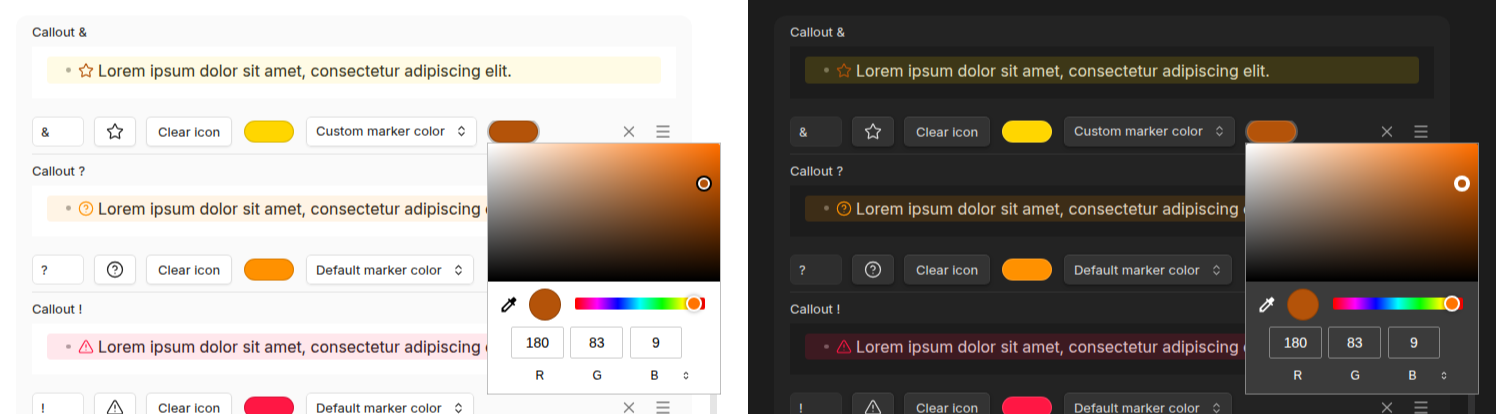
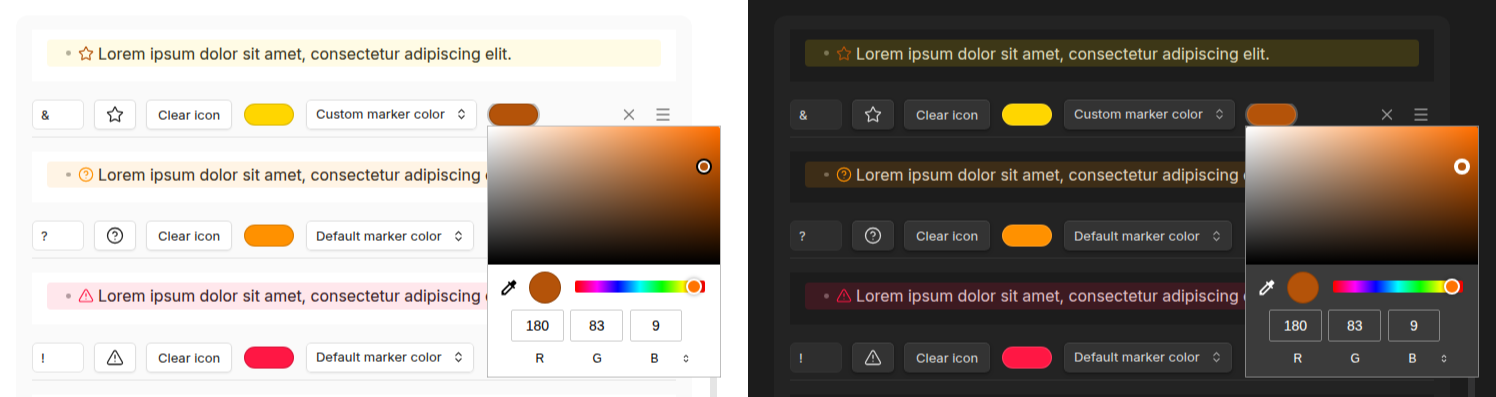
Drop the "Callout X" subtitle from each callout row
Every row's own name started with the same "Callout " prefix, and the
character it names already appears in the row's own preview and
character input right below -- so the name never told the settings
tab anything the row wasn't already showing. Set to an empty string
rather than removed outright, since Obsidian's SettingDefinitionBase
requires it (used for search as well as rendering, and empty is a
valid value there -- an empty setting-item-name collapses rather than
leaving a blank line).

That broke one thing depending on the name being a real, clickable
element: the color-picker screenshot capture's own dismissal step,
which clicked the row's name specifically because it was guaranteed
to never sit under the open color popup. Repointed at the row's own
top-left corner instead, for the same reason.

diff --git a/test/capture/readme.capture.ts b/test/capture/readme.capture.ts
@@ -899,9 +899,12 @@ async function captureColorPicker(
 
       const data = await shotDisplay(label, screen.width, screen.height);
 
-      // Clicking anywhere in the page closes the popup; the row's label is
-      // never under it.
-      await browser.$('.lc-setting .setting-item-name').click();
+      // Clicking anywhere in the page closes the popup; the row's own top
+      // left corner is never under it (the popup opens near the color
+      // swatch, toward the row's right side). Was the row's own name
+      // element, now empty (and so no longer a click target at all) since
+      // callout rows don't show one.
+      await browser.$('.lc-setting').click({ x: 4, y: 4 });
       await browser.pause(250);
 
       return cropToRect(data, crop);

diff --git a/src/settingsTab.ts b/src/settingsTab.ts
@@ -640,7 +640,10 @@ export class ListCalloutSettingTab extends PluginSettingTab {
     index: number
   ): SettingDefinitionRender {
     return {
-      name: callout.char ? `Callout ${callout.char}` : 'Callout',
+      // Not worth showing: every row's own name would start with the same
+      // "Callout " prefix, and the character itself already appears in the
+      // row's own preview and character input right below.
+      name: '',
       aliases: callout.icon ? [callout.icon] : undefined,
       render: (setting: Setting) => {
         setting.settingEl.addClass('lc-setting');
